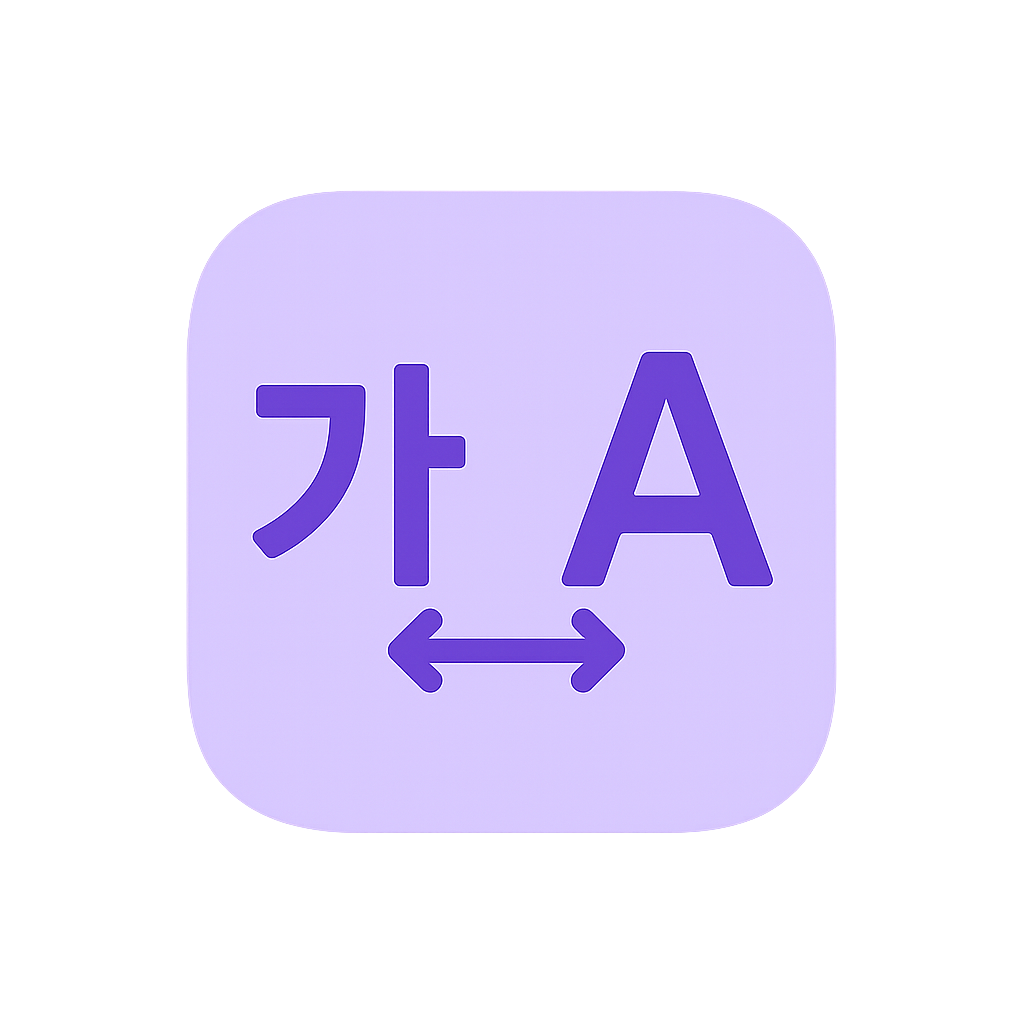
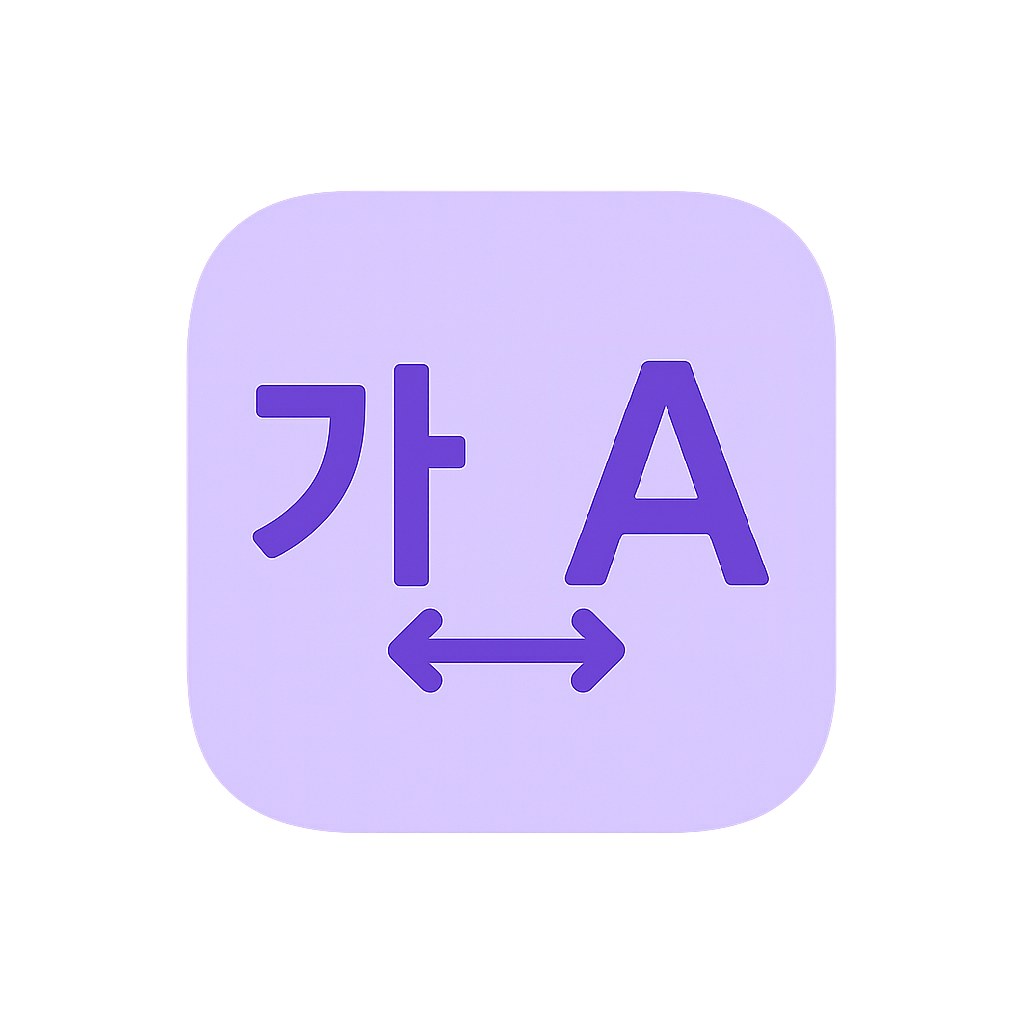
색 추출 로직 수정 중 및 아이콘 크기 평준화

diff --git a/src/popup/popup.ts b/src/popup/popup.ts
@@ -2670,11 +2670,33 @@ if (colorPickerPanel) {
   });
 }
 
+function colorPickerImageShow(e: Event) {
+  const target = e.target as HTMLInputElement | null;
+  if (!target || !target.files || target.files.length === 0) {
+    alert("이미지 파일을 선택해주세요.");
+    return;
+  }
+  const file = target.files[0];
+  if (file) {
+    const blob = new Blob([file], { type: file.type });
+    const blobUrl = URL.createObjectURL(blob);
+    chrome.tabs.create({
+      url: chrome.runtime.getURL(
+        `src/canvas/canvas.html#${encodeURIComponent(blobUrl)}`
+      ),
+    });
+  }
+}
+
+document.getElementById("tempbtn")?.addEventListener("click", (e) => {
+  chrome.tabs.create({ url: "src/canvas/canvas.html" });
+});
+
+/*
 // 이전에 선택한 파일을 저장해둘 변수
 // 파일 선택 취소 시 사용됨
 let isFileExist: boolean = false;
-
-// 사진을 popup.html에서 보여주기
+ // 사진을 popup.html에서 보여주기
 function colorPickerImageShow(e: Event) {
   const target: EventTarget | null = e.target;
   if (!target) {
@@ -2704,11 +2726,11 @@ function colorPickerImageShow(e: Event) {
 
   reader.onload = (e) => {
     const img: HTMLImageElement = new Image();
-    /*   canvas.style.cssText = `
-    max-width: 90%;
-    max-height: 90%;
-    border: 2px solid white;
-  `; */
+    //   canvas.style.cssText = `
+    //   max-width: 90%;
+    //   max-height: 90%;
+    //   border: 2px solid white;
+    // `;
     const canvas: HTMLCanvasElement = document.createElement("canvas");
     const ctx: CanvasRenderingContext2D | null = canvas.getContext("2d", {
       willReadFrequently: true,
@@ -2718,6 +2740,7 @@ function colorPickerImageShow(e: Event) {
     img.onload = () => {
       // canvas.width = img.width;
       // canvas.height = img.height;
+      canvas.classList = "zoomin";
       canvas.width = 400;
       canvas.height = 300;
       ctx?.drawImage(img, 0, 0, canvas.width, canvas.height);
@@ -2750,7 +2773,7 @@ function colorPickerImageShow(e: Event) {
     canvas.addEventListener("click", (e: MouseEvent) => {
       // colorPickShow(e);
       const imgsrc: string = img.src;
-      fullImageShow(e, imgsrc);
+      fullImageShow(imgsrc);
     });
   };
 
@@ -2759,9 +2782,10 @@ function colorPickerImageShow(e: Event) {
 }
 
 // 전체 이미지 보여주기
-function fullImageShow(e: MouseEvent, imgsrc: string) {
+function fullImageShow(imgsrc: string) {
   // 스크롤바를 위한 wrapper 처리
   const wrapper: HTMLDivElement = document.createElement("div");
+  wrapper.classList = "color-picker-scroll"; // 스크롤 적용
   wrapper.style.cssText = `
   max-width: 90vw;
   max-height: 85vh;
@@ -2776,6 +2800,7 @@ function fullImageShow(e: MouseEvent, imgsrc: string) {
   overlay.style.cssText = `
   position: fixed;
   padding-top: 10%;
+  padding-bottom: 10%;
   inset: 0;
   background: rgba(0,0,0,0.3);
   z-index: 999999;
@@ -2783,6 +2808,7 @@ function fullImageShow(e: MouseEvent, imgsrc: string) {
   justify-content: center;
   align-items: center;
 `;
+
   const canvas: HTMLCanvasElement = document.createElement("canvas");
   const ctx: CanvasRenderingContext2D | null = canvas.getContext("2d", {
     willReadFrequently: true,
@@ -2810,6 +2836,11 @@ function fullImageShow(e: MouseEvent, imgsrc: string) {
     ctx.drawImage(img, 0, 0);
   };
 
+  // height, width 조절
+  document.body.classList.remove("global-width");
+  document.body.style.width = img.width.toString() + "px";
+  document.body.style.height = img.height.toString() + "px";
+
   // 모드 활성화
   wrapper.appendChild(canvas);
   overlay.appendChild(wrapper);
@@ -2830,7 +2861,7 @@ function fullImageShow(e: MouseEvent, imgsrc: string) {
   closeButton.style.cssText = `
       background: transparent;
       position: fixed;
-      top: 4%;
+      top: 3%;
       border: none;
       font-size: 16px;
       cursor: pointer;
@@ -2838,6 +2869,8 @@ function fullImageShow(e: MouseEvent, imgsrc: string) {
     `;
   const xButtonHandler = () => {
     overlay.remove();
+    document.body.classList.add("global-width");
+    document.body.style = "";
     document.removeEventListener("click", xButtonHandler);
   };
 
@@ -2852,6 +2885,7 @@ function fullImageShow(e: MouseEvent, imgsrc: string) {
 function colorPickShow(e: MouseEvent) {
   const canvas: HTMLCanvasElement | null = e.target as HTMLCanvasElement;
   // e.target이 상위 함수의 canvas와 동일한 객체
+  if (!(canvas instanceof HTMLCanvasElement)) return; // 이미지 바깥부분 클릭하면 getContext에서 error나는 거 방지
   const ctx: CanvasRenderingContext2D | null = canvas.getContext("2d")!; // 두 번째 고지
   // 여기서 ctx로 getImageData 호출 때 경고가 나온다면 두 canvas 변수가 가리키는 대상이 동일하지 않을 가능성 있음
 
@@ -2872,3 +2906,4 @@ function colorPickShow(e: MouseEvent) {
 
   // 일단 최대 5개까지만?
 }
+ */

diff --git a/src/popup/popup.html b/src/popup/popup.html
@@ -7,6 +7,12 @@
       rel="stylesheet"
       href="https://cdn.jsdelivr.net/npm/@mdi/font@7.4.47/css/materialdesignicons.min.css"
     />
+
+    <!-- 색 추출에서 아이콘 불러오는 용도 -->
+    <link
+      rel="stylesheet"
+      href="https://cdnjs.cloudflare.com/ajax/libs/font-awesome/6.5.0/css/all.min.css"
+    />
     <title>Document</title>
   </head>
   <body class="global-width">
@@ -746,15 +752,25 @@
         />
       </div>
       <hr class="titlehr" />
-      <form method="post" enctype="multipart/form-data">
-        <input
-          type="file"
-          id="color-picker-choose-image"
-          name="chooseImage"
-          accept="image/*"
-          aria-label="파일 첨부하기"
-        />
-      </form>
+      <div class="file is-normal py-4 is-justify-content-center">
+        <label class="file-label">
+          <input
+            class="file-input"
+            type="file"
+            id="color-picker-choose-image"
+            name="chooseImage"
+            accept="image/*"
+            aria-label="이미지 첨부하기"
+          />
+          <span class="file-cta">
+            <span class="file-icon">
+              <i class="fas fa-upload"></i>
+            </span>
+            <span class="file-label">이미지 선택</span>
+          </span>
+        </label>
+      </div>
+      <form method="post" enctype="multipart/form-data"></form>
       <span id="color-picker-click-value"></span>
     </div>
     <div id="color-picker-preview-div" class="blind"></div>

diff --git a/src/canvas/canvas.ts b/src/canvas/canvas.ts
@@ -1,0 +1,24 @@
+// 비정상 접근 차단
+if (window.location.protocol !== "chrome-extension:") {
+  document.body.innerHTML = "Unauthorized access";
+  throw new Error("Unauthorized access");
+}
+
+// 페이지 로드 시 이미지 출력
+window.addEventListener("DOMContentLoaded", canvasAction);
+
+// 이미지 작성
+function canvasAction() {
+  const url = decodeURIComponent(location.hash.substring(1));
+  if (url) {
+    const img = document.getElementById("imageDisplay") as HTMLImageElement;
+    if (!img) {
+      console.error("img DOM을 찾을 수 없습니다.");
+      return;
+    }
+    img.src = url;
+    img.style.objectFit = "contain";
+    document.body.style.margin = "0";
+    document.body.appendChild(img);
+  }
+}

diff --git a/vite.config.ts b/vite.config.ts
@@ -12,6 +12,7 @@ export default defineConfig({
         options: "src/options/options.html",
         background: "src/background.ts",
         help: "src/help/help.html", // 라우팅 해줘야 동작
+        canvas: "src/canvas/canvas.html",
       },
       output: {
         entryFileNames: "src/[name].js", // 파일명 유지하기

diff --git a/src/canvas/canvas.html b/src/canvas/canvas.html
@@ -1,0 +1,12 @@
+<!DOCTYPE html>
+<html lang="en">
+  <head>
+    <meta charset="UTF-8" />
+    <meta name="viewport" content="width=device-width, initial-scale=1.0" />
+    <title>Document</title>
+  </head>
+  <body>
+    <img id="imageDisplay" title="canv" />
+  </body>
+  <script type="module" src="./canvas.ts"></script>
+</html>

diff --git a/src/popup/popup.css b/src/popup/popup.css
@@ -162,6 +162,7 @@ li:hover {
 /* 메인화면 스크롤바 */
 ::-webkit-scrollbar {
   width: 5px;
+  height: 5px;
 }
 
 ::-webkit-scrollbar-track {
@@ -248,3 +249,11 @@ li:hover {
 }
 
 /** 색 추출 */
+.zoomin:hover {
+  cursor: zoom-in;
+}
+
+.color-picker-scroll::-webkit-scrollbar {
+  width: 10px;
+  height: 10px;
+}

diff --git a/src/help/help.html b/src/help/help.html
@@ -8,6 +8,7 @@
   </head>
   <body>
     <h1>사용법 및 도움말</h1>
+    <p>업데이트 예정...</p>
     <div class="card-footer">
       <a
         href="https://webtools-docs.projectwj.uk/terms"
